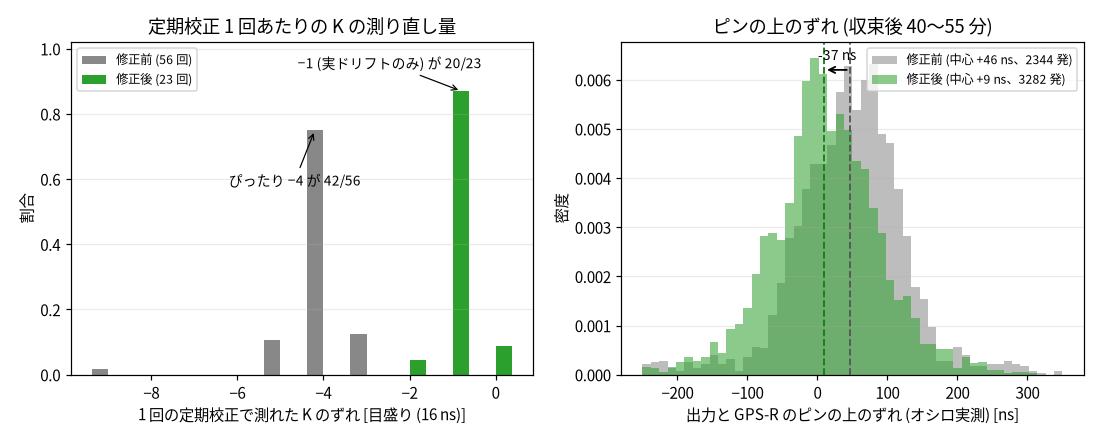
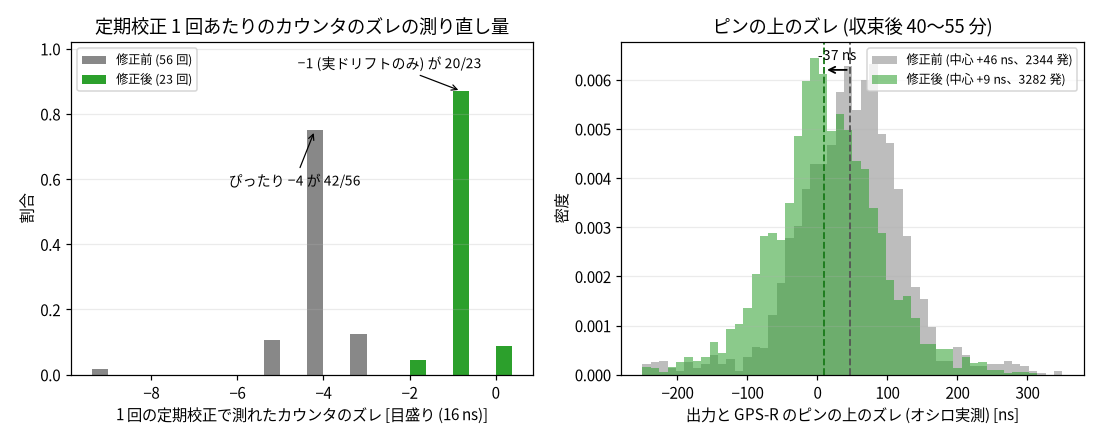
docs(precision): 「実効 K」を「カウンタのズレ」に改称し切り分けを図で明示
- 本文・セクションタイトル・図から「実効 K」「K」を排し「カウンタのズレ」に統一
- 表記揺れ「ずれ/ズレ」を「ズレ」に統一 (いずれ等は除外)
- 観測方法図 fig-kexp-setup を全面刷新: 上段に 3 カウンタと各自の見るピン・
  校正での切替有無、下段に「原因 (個体差/波形依存/校正の切替) × 差 (c0−c3/c0−c2)」
  のマトリクスを置き、c0−c3 は同じ GP2・切替なしゆえ個体差しか効かず c0−c2 は
  3 つ全部が混ざる、という切り分けの理屈を明示
- fig-k-offset / fig-kslip-fix の図中文言も ズレ / カウンタのズレ に追随

Claude-Session: https://claude.ai/code/session_01QA3SZ4k1hmnnVeG51UZWBZ

diff --git a/docs/report/precision-ladder/README.md b/docs/report/precision-ladder/README.md
@@ -56,7 +56,7 @@ on_gps_edge() {
 
 実際に 8 回起動して、位相差 `phase` を毎秒記録してみる。ズレは 2 つに分かれて見える。まず、起動直後の位相差は毎回バラバラで、1 秒の中のどこにでも落ちる。出力の秒の刻み目は firmware が起動した瞬間で決まり、GPS-R の秒境界とは無関係だからだ。これがオフセットのズレになる。もうひとつ、出力のエッジは GPS-R のエッジに対して、どの起動でも毎秒 2.5〜3 µs ずつ同じ向きに動き続ける。いまの室温では Pico の水晶が GPS-R より約 2.7 ppm 速く、出力の「1 秒」がわずかに短いためだ。これが間隔のズレになる。
 
-![タイマーだけの 1PPS と GPS-R のずれ。起動直後の位相差は毎回バラバラ(左)、位相差が動く速さは毎回ほぼ同じ(右)](precision-figs/fig-naive-phase.png)
+![タイマーだけの 1PPS と GPS-R のズレ。起動直後の位相差は毎回バラバラ(左)、位相差が動く速さは毎回ほぼ同じ(右)](precision-figs/fig-naive-phase.png)
 
 エッジが動き続けるのは、測ったズレをまだ出力へ戻していないからだ。ズレを測って戻す前に、この測定自体の質も見ておく。
 
@@ -68,11 +68,11 @@ on_gps_edge() {
 
 ## GPS-R を見て周期を寄せる
 
-水晶のずれが見えたので、次は GPS-R 1PPS が来るたびにその時刻を Pico のタイマーで読み、ずれに合わせて出力周期を少しずつ寄せる。Pico の水晶が速ければ次の周期をわずかに長くし、遅ければ短くする。PPS が届いている間に周波数を学習しておけば、PPS が途切れても推定で時刻を進められる。この状態を holdover と呼ぶ。
+水晶のズレが見えたので、次は GPS-R 1PPS が来るたびにその時刻を Pico のタイマーで読み、ズレに合わせて出力周期を少しずつ寄せる。Pico の水晶が速ければ次の周期をわずかに長くし、遅ければ短くする。PPS が届いている間に周波数を学習しておけば、PPS が途切れても推定で時刻を進められる。この状態を holdover と呼ぶ。
 
-タイマーだけのときは、位相差が毎秒 µs 単位で動いていた。周期を寄せて周波数の推定が落ち着くと、位相差はほとんど動かなくなる。水晶のずれの大半は、これで打ち消せている。ただし、この補正で合わせているのは周期(1 秒の長さ)だけで、位相差そのものを 0 へ戻す力はない。だから位相差は成り行きの場所で止まる。この計測では +388 ms で止まり、その周りを σ 3.6 µs で揺れている。位相差を 0 へ寄せるのは、のちの PLL の仕事になる。
+タイマーだけのときは、位相差が毎秒 µs 単位で動いていた。周期を寄せて周波数の推定が落ち着くと、位相差はほとんど動かなくなる。水晶のズレの大半は、これで打ち消せている。ただし、この補正で合わせているのは周期(1 秒の長さ)だけで、位相差そのものを 0 へ戻す力はない。だから位相差は成り行きの場所で止まる。この計測では +388 ms で止まり、その周りを σ 3.6 µs で揺れている。位相差を 0 へ寄せるのは、のちの PLL の仕事になる。
 
-その周期合わせにも制約がある。出したい周期は「GPS-R の 1 秒」そのもので、Pico のタイマーで測ると、この計測では平均 1000002.9 µs にあたる。水晶が速いぶんタイマーの 1 µs はわずかに短く、本当の 1 秒を数えるには 1000002.9 個ぶん必要になるからだ(ずれの大きさは温度でも動くので、前の節の 8 回とは少し違う値になっている)。ところが出力周期は、タイマーの 1 µs 単位でしか指定できない。1000002 µs や 1000003 µs は出せても、端数の 0.9 µs は出せない。そこで、ある秒は 1000003 µs、別の秒は 1000002 µs、と混ぜて出し、何秒も平均すると 1000002.9 µs になるようにする。1 回ごとの周期は最大 1 µs 弱ずれるが、平均は狙いに乗る。これが一次 sigma-delta と呼ばれるやり方だ。
+その周期合わせにも制約がある。出したい周期は「GPS-R の 1 秒」そのもので、Pico のタイマーで測ると、この計測では平均 1000002.9 µs にあたる。水晶が速いぶんタイマーの 1 µs はわずかに短く、本当の 1 秒を数えるには 1000002.9 個ぶん必要になるからだ(ズレの大きさは温度でも動くので、前の節の 8 回とは少し違う値になっている)。ところが出力周期は、タイマーの 1 µs 単位でしか指定できない。1000002 µs や 1000003 µs は出せても、端数の 0.9 µs は出せない。そこで、ある秒は 1000003 µs、別の秒は 1000002 µs、と混ぜて出し、何秒も平均すると 1000002.9 µs になるようにする。1 回ごとの周期は最大 1 µs 弱ズレるが、平均は狙いに乗る。これが一次 sigma-delta と呼ばれるやり方だ。
 
 ![10 回に 1 回だけ 1000002 µs を混ぜると、平均は 1000002.9 µs になる (模式図)](precision-figs/fig-dither-concept.png)
 
@@ -106,7 +106,7 @@ loop {
 
 ## PLL で位相を閉じる
 
-ここから先は、出力の位相を GPS-R にぴったり合わせにいく。そのためにはまず、GPSDO PPS が GPS-R 1PPS からどれだけずれているかを測らなければならない。そこで出力を一本のワイヤで Pico に戻し(loopback)、GPS-R のエッジと同じように PIO で捕まえて、出力と GPS-R の位相差を内部で測る。この内部で測った位相差を、ここでは loopback 位相と呼ぶ(firmware のログでは hwphase という)。この流れを図にすると、次のようになる。
+ここから先は、出力の位相を GPS-R にぴったり合わせにいく。そのためにはまず、GPSDO PPS が GPS-R 1PPS からどれだけズレているかを測らなければならない。そこで出力を一本のワイヤで Pico に戻し(loopback)、GPS-R のエッジと同じように PIO で捕まえて、出力と GPS-R の位相差を内部で測る。この内部で測った位相差を、ここでは loopback 位相と呼ぶ(firmware のログでは hwphase という)。この流れを図にすると、次のようになる。
 
 ```mermaid
 flowchart LR
@@ -122,7 +122,7 @@ flowchart LR
 
 ![loopback 接続。出力 GP3 の信号を 1 本のワイヤで GP4 へ戻し、GPS-R と出力の両方のエッジ時刻を PIO で捕まえる](precision-figs/fig-loopback.png)
 
-ただ、PIO だけではまだ開ループだ。開ループというのは、測った位相差を出力へ戻していない状態を指す。周波数を合わせただけのときと同じで、位相差は成り行きの場所に居座ったまま、残った小さな周波数ずれのぶんゆっくり動き続ける。この動きは σ にして約 1866 ns、およそ 1.9 µs ある。
+ただ、PIO だけではまだ開ループだ。開ループというのは、測った位相差を出力へ戻していない状態を指す。周波数を合わせただけのときと同じで、位相差は成り行きの場所に居座ったまま、残った小さな周波数ズレのぶんゆっくり動き続ける。この動きは σ にして約 1866 ns、およそ 1.9 µs ある。
 
 そこで PLL (Phase-Locked Loop) を入れる。ここでは、GPS-R 1PPS と GPSDO PPS の位相差を見ながら出力周期を少しずつ戻す制御ループを指す。出力位相が進んでいれば少し遅らせ、遅れていれば進める。PIO がエッジの測定と生成を安定させ、PLL がゆっくりした位相の流れを戻す、という役割分担になる。
 
@@ -150,23 +150,23 @@ I を入れた PI と PID では、オフセットは 0 中心へ戻る。その
 
 ## オシロで答え合わせをする
 
-PLL を入れると内部の loopback 位相は 0 付近に寄る。ただ、内部で合っていることと、ピンの上で合っていることは別の話だ。ピンの上で合っているとは、実際の出力ピンと GPS-R PPS ピンの位相が、外部計器で見て揃っているという意味になる。loopback 経路に固定のずれがあると、内部では合って見えてもピンの上ではずれる。
+PLL を入れると内部の loopback 位相は 0 付近に寄る。ただ、内部で合っていることと、ピンの上で合っていることは別の話だ。ピンの上で合っているとは、実際の出力ピンと GPS-R PPS ピンの位相が、外部計器で見て揃っているという意味になる。loopback 経路に固定のズレがあると、内部では合って見えてもピンの上ではズレる。
 
-まず、内部の loopback 位相そのものに校正が要る。出力と GPS-R は別々の PIO カウンタで捕捉していて、2 つのカウンタは数え始めの瞬間が違うから、読みは常に一定量ずれている。この差をここでは実効 K と呼ぶ。大きさは 2 つを有効化するコードの間隔で決まり、この firmware では実測でおよそ 5500 tick (1 tick は PIO の 16 ns 目盛りで、88 µs ぶん)、目標 100 ns の 1000 倍ある。
+まず、内部の loopback 位相そのものに校正が要る。出力と GPS-R は別々の PIO カウンタで捕捉していて、2 つのカウンタは数え始めの瞬間が違うから、読みは常に一定量ズレている。この差をここではカウンタのズレと呼ぶ。大きさは 2 つを有効化するコードの間隔で決まり、この firmware では実測でおよそ 5500 tick (1 tick は PIO の 16 ns 目盛りで、88 µs ぶん)、目標 100 ns の 1000 倍ある。
 
-直感的には、これは単なる固定オフセットのはずだ。数え始めの差は一定だし、同じクロックで刻む 2 つのカウンタが勝手に離れていく理由はない。だから起動時に一度だけ測って、差し引くことにする。測り方は単純で、同じエッジを 2 つのカウンタに見せれば、同じ瞬間の読みどうしの差がカウンタのずれそのものになる。
+直感的には、これは単なる固定オフセットのはずだ。数え始めの差は一定だし、同じクロックで刻む 2 つのカウンタが勝手に離れていく理由はない。だから起動時に一度だけ測って、差し引くことにする。測り方は単純で、同じエッジを 2 つのカウンタに見せれば、同じ瞬間の読みどうしの差がカウンタのズレそのものになる。
 
-![実効 K が生まれる理由と測り方。数え始めの瞬間の違いが一定のずれになり、同じエッジの読みの差として測れる](precision-figs/fig-k-offset.png)
+![カウンタのズレが生まれる理由と測り方。数え始めの瞬間の違いが一定のズレになり、同じエッジの読みの差として測れる](precision-figs/fig-k-offset.png)
 
-ところが、これで終わらなかった。起動時に校正した構成をオシロで見続けると、内部の loopback 位相は 0 付近のままなのに、ピンの上の位相差は時間とともにまた歩いていく。落ち着いてから約 20 分の時点で +249 ns (30 発平均、σ 18 ns)。つまり K は固定ではなく、動作中に少しずつスリップしていて、firmware は古い K のまま 0 を作り続けている。放置すると数 ns/min で歩く(この日の計測では +3.8 ns/min、以前の計測では +5.3 ns/min)。以前 793 ns の隠れたずれが出たのも、このスリップの放置が原因だった。
+ところが、これで終わらなかった。起動時に校正した構成をオシロで見続けると、内部の loopback 位相は 0 付近のままなのに、ピンの上の位相差は時間とともにまた歩いていく。落ち着いてから約 20 分の時点で +249 ns (30 発平均、σ 18 ns)。つまりカウンタのズレは固定ではなく、動作中に少しずつスリップしていて、firmware は古い値のまま 0 を作り続けている。放置すると数 ns/min で歩く(この日の計測では +3.8 ns/min、以前の計測では +5.3 ns/min)。以前 793 ns の隠れたズレが出たのも、このスリップの放置が原因だった。
 
-![起動時に校正しただけの構成。内部は 0 付近なのに、ピンの上では +249 ns ずれている (落ち着いてから約 20 分。30 発平均、σ 18 ns、100 ns/div)](precision-figs/scope-norecal-t020.png)
+![起動時に校正しただけの構成。内部は 0 付近なのに、ピンの上では +249 ns ズレている (落ち着いてから約 20 分。30 発平均、σ 18 ns、100 ns/div)](precision-figs/scope-norecal-t020.png)
 
-スリップの出どころは、この時点では分からない。ただ K は測れる量なので、原因を知らなくても、測り直し続ければ追従できる。そこで約 2.5 分ごとに実効 K を測り直す。これを以後、定期校正と呼ぶ。測り直した値は急に飛ばさず、ゆっくり寄せるようにする。これでずれはほぼ止まり、長い目で見た傾きはほぼ 0 (この計測では −0.1 ns/min、以前の計測では +0.3 ns/min) に抑えられる。
+スリップの出どころは、この時点では分からない。ただカウンタのズレは測れる量なので、原因を知らなくても、測り直し続ければ追従できる。そこで約 2.5 分ごとにこれを測り直す。これを以後、定期校正と呼ぶ。測り直した値は急に飛ばさず、ゆっくり寄せるようにする。これでズレはほぼ止まり、長い目で見た傾きはほぼ 0 (この計測では −0.1 ns/min、以前の計測では +0.3 ns/min) に抑えられる。
 
-![左: 起動時校正だけだと、ピンの上のずれ (オシロ実測と内部の差) が一直線にずれていく。右: 定期校正を入れると平坦になる。緑線は定期校正の実行で、40 分に 15 回](precision-figs/fig-recal-walk.png)
+![左: 起動時校正だけだと、ピンの上のズレ (オシロ実測と内部の差) が一直線にズレていく。右: 定期校正を入れると平坦になる。緑線は定期校正の実行で、40 分に 15 回](precision-figs/fig-recal-walk.png)
 
-オシロで直接見ても、定期校正ありの出力エッジは GPS-R の +40 ns 前後に居座り続ける。下は上の連続計測中、ずれが走行平均の近傍にいた瞬間の 1 コマだ。
+オシロで直接見ても、定期校正ありの出力エッジは GPS-R の +40 ns 前後に居座り続ける。下は上の連続計測中、ズレが走行平均の近傍にいた瞬間の 1 コマだ。
 
 ![定期校正あり構成の計測中の 1 コマ (100 ns/div)。40 分の走行平均 +40 ns の近傍にいる](precision-figs/scope-fullconfig-repr.png)
 
@@ -177,15 +177,15 @@ PLL を入れると内部の loopback 位相は 0 付近に寄る。ただ、内
 | PLL のみ、定期校正なし | +131.5 ns | 85.5 ns | 35% |
 | 全部入り構成 (定期校正あり) | +33 ns | 約 20〜70 ns (窓によって変わる) | 穏やかな窓で 100%、揺れる窓で約 75% |
 
-定期校正なしでは、出力は GPS-R に対して +131.5 ns に寄っていて、オシロの単発測定のうち ≤100 ns に入るのは 35% だけになる。ここまでの改良に、このあと足す温度補正まで入れた構成を、以後まとめて全部入り構成と呼ぶ。この構成では実効 K のスリップが抑えられ、GPS-R 相対の中心は安定する。一方で、定期校正をかけても、出力ピンと GPS-R PPS ピンの間には、時間で動かない一定のずれが残る。オシロでピンの上を直接見ると、全部入り構成の中心は +33 ns あたりにいて、0 ではない。loopback からは見えないずれなので、この時点では、pad や基板の配線、オシロのプローブを信号が伝わる時間の差だと考えていた。この見立ては次の節で覆る。
+定期校正なしでは、出力は GPS-R に対して +131.5 ns に寄っていて、オシロの単発測定のうち ≤100 ns に入るのは 35% だけになる。ここまでの改良に、このあと足す温度補正まで入れた構成を、以後まとめて全部入り構成と呼ぶ。この構成ではカウンタのズレのスリップが抑えられ、GPS-R 相対の中心は安定する。一方で、定期校正をかけても、出力ピンと GPS-R PPS ピンの間には、時間で動かない一定のズレが残る。オシロでピンの上を直接見ると、全部入り構成の中心は +33 ns あたりにいて、0 ではない。loopback からは見えないずれなので、この時点では、pad や基板の配線、オシロのプローブを信号が伝わる時間の差だと考えていた。この見立ては次の節で覆る。
 
-![定期校正の前後 (オシロ実測)。定期校正でスリップが抑えられ中心が安定するが、+33 ns の固定のずれが残る](precision-figs/fig2-s4-beforeafter.png)
+![定期校正の前後 (オシロ実測)。定期校正でスリップが抑えられ中心が安定するが、+33 ns の固定のズレが残る](precision-figs/fig2-s4-beforeafter.png)
 
 この安定は長時間でも保つ。全部入り構成を数時間走らせたあとにオシロで 30 発測っても、中心は +26 ns (σ 41 ns) にいた。
 
-この固定のずれは、オシロの観測結果を制御に使えば消すことができる。ただ、firmware の中で処理を完結させたいので、やらない。オシロ計測にはプローブの遅れの差などのバイアスも入り得るので、それを firmware に焼き込むと計測系の癖まで固定してしまう。オシロは、ピンの上で実際に揃っているかを外から確かめる検証に使い、出力のチューニングには使わない。
+この固定のズレは、オシロの観測結果を制御に使えば消すことができる。ただ、firmware の中で処理を完結させたいので、やらない。オシロ計測にはプローブの遅れの差などのバイアスも入り得るので、それを firmware に焼き込むと計測系の癖まで固定してしまう。オシロは、ピンの上で実際に揃っているかを外から確かめる検証に使い、出力のチューニングには使わない。
 
-なお、以前見えた 793 ns の隠れたずれは定期校正で消えていて、いま残っている +33 ns はそれとは別の固定のずれだ。
+なお、以前見えた 793 ns の隠れたズレは定期校正で消えていて、いま残っている +33 ns はそれとは別の固定のズレだ。
 
 性能の数字を取るときは、落ち着くのを待つ。収束の途中で測ると、定常の実力とは別物の数字が出る。実際、最初の測定は収束途中のオーバーシュートの最中に取ってしまっていて、scope mean は +216 ns、≤100 ns 率は 0% だった。このとき loopback 位相も +272〜304 ns に振れている。
 
@@ -199,21 +199,21 @@ PLL を入れると内部の loopback 位相は 0 付近に寄る。ただ、内
 
 ![出力エッジが +33ns あたりを中心にゆっくりゆらぐ様子 (30 ns/div, single trigger)](precision-figs/offset-wander.gif)
 
-## 実効 K はなぜスリップするのか
+## カウンタのズレはなぜスリップするのか
 
-定期校正でスリップには追従できたが、出どころは分からないままだった。ログには妙な癖も見えている。定期校正が測り直すたびに出るずれ量が、毎回ほぼ同じ −4〜−5 tick (2.5 分あたり −64〜−80 ns) なのだ。1 分あたりに直すと約 26〜32 ns/min で、放置したときにピンがずれていく実測 (+3.8〜+5.3 ns/min) の 5〜8 倍もある。内部が見ているスリップと、ピンに出るスリップは、同じものに見えない。
+定期校正でスリップには追従できたが、出どころは分からないままだった。ログには妙な癖も見えている。定期校正が測り直すたびに出るズレ量が、毎回ほぼ同じ −4〜−5 tick (2.5 分あたり −64〜−80 ns) なのだ。1 分あたりに直すと約 26〜32 ns/min で、放置したときにピンがズレていく実測 (+3.8〜+5.3 ns/min) の 5〜8 倍もある。内部が見ているスリップと、ピンに出るスリップは、同じものに見えない。
 
 説明の候補を 3 つ立てた。前提として、定期校正は loopback 側のカウンタを一瞬 GPS-R のピンへ向けて同じエッジを見せ、測り終えたら出力へ戻す、という往復の切替でできている。
 
 - **個体差**: 同じクロックで刻んでいても、カウンタごとに進み方がわずかに違う。
 - **波形依存**: 捕捉プログラムの振る舞いは見ているピンの波形に左右されるから、GPS-R の非同期なエッジを見る側と、自分の出力の同期したエッジを見る側で、刻みの抜け方が変わる。
-- **校正手続きの見かけ**: カウンタ自体はずれておらず、定期校正の切替そのものが毎回一定のずれを作っている。
+- **校正手続きの見かけ**: カウンタ自体はズレておらず、定期校正の切替そのものが毎回一定のズレを作っている。
 
 切り分けには観測を 1 本足すのが早い。PIO には捕捉プログラムを走らせられる枠が 1 本余っているので、3 本目のカウンタを GPS-R のピンへ常時向け、既存の 2 本と合わせて 3 つの読みを毎秒すべてログしながら 2.4 時間流す。オシロも並走させて、ピンの上の真値と突き合わせる。同じピンを見る 2 本の差が動けば個体差で、動かなければ残りの 2 つに絞れる。
 
-![切り分け実験の観測方法。既存の 2 カウンタ (GPS-R 用 c0、loopback 用 c2) に、GPS-R と同じ GP2 を見る 3 本目 (観測用 c3) を足す。同じピンを見る c0 − c3 が個体差だけを映し、c0 − c2 が実効 K でこれがスリップする。3 本目は読むだけで制御に関与しない](precision-figs/fig-kexp-setup.png)
+![カウンタのズレの原因の切り分け。上: 3 本のカウンタ (GPS-R 用 c0 と観測用 c3 は GP2、loopback 用 c2 は GP4) と、各自が見るピンと校正での切替の有無。下: 差ごとに効きうる原因。c0 − c3 は同じ GP2 で切替もないので個体差しか効かず、c0 − c2 は 3 つ全部が混ざる](precision-figs/fig-kexp-setup.png)
 
-結果は仮説を 1 つに絞った。同じ GPS-R ピンを見る 2 本の差は、2.4 時間で量子化の ±1 tick を残して平坦のまま動かない (傾きは 0.000 ns/min)。個体差は消えた。定期校正が測るずれは 56 回中 42 回がぴったり −4 tick で、温度とは無相関だった。連続してたまるドリフトではなく、校正 1 回につき 1 個ずつ出る固定量ということになる。そして肝心のピンの上は、オシロで見るかぎり 2.4 時間ずっと平坦のまま (傾き −0.006 ns/min)。つまり −4 tick は、切替が自分で作り、次の校正が K ごと測り直して自分で打ち消す、ピンに届かない見かけの量になる。残るのは校正手続きの見かけ、それも切替 1 回あたりの固定量という形だ。
+結果は仮説を 1 つに絞った。同じ GPS-R ピンを見る 2 本の差は、2.4 時間で量子化の ±1 tick を残して平坦のまま動かない (傾きは 0.000 ns/min)。個体差は消えた。定期校正が測るズレは 56 回中 42 回がぴったり −4 tick で、温度とは無相関だった。連続してたまるドリフトではなく、校正 1 回につき 1 個ずつ出る固定量ということになる。そして肝心のピンの上は、オシロで見るかぎり 2.4 時間ずっと平坦のまま (傾き −0.006 ns/min)。つまり −4 tick は、切替が自分で作り、次の校正がズレごと測り直して自分で打ち消す、ピンに届かない見かけの量になる。残るのは校正手続きの見かけ、それも切替 1 回あたりの固定量という形だ。
 
 では、切替の何がカウンタを 4 tick 遅らせるのか。切替に使っているのは PIO を操作するライブラリの設定関数で、これはピン番号だけ変えたい場合でも、クロック分周や FIFO などの設定レジスタ一式を毎回書き直す。疑いを直接確かめるため、3 本目のカウンタ (純観測なので、何をしても制御に影響しない) に「値を変えない」書き込みを 1 分おきに打ち分けた。設定関数を丸ごと呼ぶ場合と、設定レジスタを 1 本ずつ同じ値で書き直す場合とで、同じピンを見る 2 本の差に段が出るかを見る。
 
@@ -223,11 +223,11 @@ PLL を入れると内部の loopback 位相は 0 付近に寄る。ただ、内
 
 犯人は設定関数の最後の一手だった。この関数はレジスタを書き終えたあと、走行中のプログラムへ「先頭へ跳べ」という命令を割り込ませる。捕捉プログラムの実物は、エッジを FIFO へ積む数命令のあいだ X = X − 1 の減算が止まる作りになっている (擬似コードでは省いた細部だ)。切替はエッジ処理の直後、パルスがまだ high のうちに走るので、先頭へ跳んだプログラムはピンが high なのを見て、偽のエッジ捕捉を 1 回やり直す。強制ジャンプと偽捕捉で合わせて 4 サイクル、減算が止まる。1 tick は 2 サイクルだから、ちょうど −2 tick。定期校正は GPS-R へ向ける切替と出力へ戻す切替で 2 回呼ぶので、1 回の校正あたり −4 tick になる。この機構なら偽のエッジが FIFO に 1 個積まれるはずで、その予言もログでそのまま確認できた。
 
-この機構は、+33 ns の固定のずれの正体でもあった。校正は起動時も定期も、K を測り終えてから出力側のピンへ切り替えて戻る。この戻しの切替で失う 2 tick (32 ns) は、いま測ったばかりの K には入っていない。次の校正まではその K のまま制御し、制御は loopback 位相を 0 に保つから、K に入らなかった 32 ns はそのままピンの上へ押し出される。どの校正の直後も同じだけ取りこぼすので、出力は常に +32 ns 側へ座り続ける。配線やプローブの遅れと考えていた +33 ns は、ほぼまるごとこの取りこぼしだった。
+この機構は、+33 ns の固定のズレの正体でもあった。校正は起動時も定期も、カウンタのズレを測り終えてから出力側のピンへ切り替えて戻る。この戻しの切替で失う 2 tick (32 ns) は、いま測ったばかりのズレには入っていない。次の校正まではそのズレのまま制御し、制御は loopback 位相を 0 に保つから、ズレに入らなかった 32 ns はそのままピンの上へ押し出される。どの校正の直後も同じだけ取りこぼすので、出力は常に +32 ns 側へ座り続ける。配線やプローブの遅れと考えていた +33 ns は、ほぼまるごとこの取りこぼしだった。
 
-直し方は、実験がそのまま教えてくれる。切替のときに設定を丸ごと書き直すのをやめ、どのピンを見るかのレジスタフィールドだけを書き換える (設定関数を通さずレジスタを直接書くだけなら段が出ないことは、上の実験で確認済みだ)。1 時間の検証で、定期校正が測るずれは 23 回中 20 回が −1 tick になり、ぴったり −4 は消えた。ピンの上の中心も、修正直前の計測の +46 ns (中心そのものがゆっくりゆらぐので、窓の取り方で +33〜+46 ns を動く) から +9 ns へ動いた。移動量の約 37 ns は、取りこぼしていた 32 ns と、このゆらぎの誤差の範囲で一致する。ここまでの節で +33 ns と書いてきた中心は、この修正のあとは +9 ns 前後になる。
+直し方は、実験がそのまま教えてくれる。切替のときに設定を丸ごと書き直すのをやめ、どのピンを見るかのレジスタフィールドだけを書き換える (設定関数を通さずレジスタを直接書くだけなら段が出ないことは、上の実験で確認済みだ)。1 時間の検証で、定期校正が測るズレは 23 回中 20 回が −1 tick になり、ぴったり −4 は消えた。ピンの上の中心も、修正直前の計測の +46 ns (中心そのものがゆっくりゆらぐので、窓の取り方で +33〜+46 ns を動く) から +9 ns へ動いた。移動量の約 37 ns は、取りこぼしていた 32 ns と、このゆらぎの誤差の範囲で一致する。ここまでの節で +33 ns と書いてきた中心は、この修正のあとは +9 ns 前後になる。
 
-![切替修正の前後。左: 定期校正 1 回あたりの K の測り直し量は −4 tick 中心から −1 tick 中心になる。右: ピンの上のずれの中心は +46 ns から +9 ns へ動く](precision-figs/fig-kslip-fix.png)
+![切替修正の前後。左: 定期校正 1 回あたりのカウンタのズレの測り直し量は −4 tick 中心から −1 tick 中心になる。右: ピンの上のズレの中心は +46 ns から +9 ns へ動く](precision-figs/fig-kslip-fix.png)
 
 残った −1 tick/2.5 分 (約 6 ns/min) が、起動時校正だけの構成でピンが歩いて見えていた実ドリフトの本体だ。ピンで見えていた +3.8〜+5.3 ns/min とおおむね同じ大きさで、冒頭の食い違いは切替の見かけを差し引くと消える。定期校正はこの実ドリフトを吸収するために残す。出どころはまだ特定していない。同じ GPS-R ピンを見る 2 本のカウンタは 2.4 時間見てもレートで離れなかったので、残る容疑は 3 つの候補のうちの波形依存になる。非同期な GPS-R エッジと同期した出力エッジとで、エッジを捕まえる位置の平均がゆっくり動く筋だ。
 
@@ -276,7 +276,7 @@ PLL を入れると内部の loopback 位相は 0 付近に寄る。ただ、内
 
 ログを追うと、温度フィードフォワードが実際の水晶変化に対して大きすぎることが見えてくる。速い加熱でフィードフォワードは −1363 ppb まで膨らむが、落ち着いたあとに見える実際の水晶周波数変化は −0.773 ppb になる。比にするとおよそ 1800 倍で、温度の先読みが効きすぎたというより、別の推定器が大きく反応している。
 
-matched-lead だけなら、同じような温度ステップでも約 41 ppb で止まる。−1363 ppb まで膨らむ分は、RP2040 の温度と水晶の温度のモデルのずれを、温度以外の残差を拾う推定器 (observer) が大きな補正として出してしまったものと見られる。
+matched-lead だけなら、同じような温度ステップでも約 41 ppb で止まる。−1363 ppb まで膨らむ分は、RP2040 の温度と水晶の温度のモデルのズレを、温度以外の残差を拾う推定器 (observer) が大きな補正として出してしまったものと見られる。
 
 ![フィードフォワードが実変化のおよそ 1800 倍に過反応する](precision-figs/fig9-overreact.png)
 
@@ -302,7 +302,7 @@ clamp 版を焼き、加熱レートを約 1.1℃/10s に揃えて A/B を取る
 
 3 回とも ≤100 ns 帯に戻り、scope mean は +72.9〜+84.2 ns、boot 間の差は約 11 ns になる。loopback 位相も 66〜80 ns に入っている。起動のたびに任意の位置(数百 ms 単位)から始まっていたタイマーだけの頃と比べると、対照的な再現性だ。
 
-ただし、この 3 回は、実効 K のスリップの正体がまだ分かっておらず、ピンの上の中心を 0 の近くへ寄せるために出力へ一定量を足していた頃の測定になる(スリップの機構が分かって取りこぼしを直したいま、この下駄は外してある)。だから絶対の中心は今の全部入り構成とは別の位置にある。ここで見たいのは、boot 間のばらつきが約 11 ns と小さいこと、つまり再起動しても同じ位置へ戻ることだ。この再現性は中心の絶対位置に依らない。なお、この比較は落ち着いた直後の同じ時点を見たもので、長時間運転したあとの中心が boot ごとに同じになるかまでは確かめていない。
+ただし、この 3 回は、カウンタのズレのスリップの正体がまだ分かっておらず、ピンの上の中心を 0 の近くへ寄せるために出力へ一定量を足していた頃の測定になる(スリップの機構が分かって取りこぼしを直したいま、この下駄は外してある)。だから絶対の中心は今の全部入り構成とは別の位置にある。ここで見たいのは、boot 間のばらつきが約 11 ns と小さいこと、つまり再起動しても同じ位置へ戻ることだ。この再現性は中心の絶対位置に依らない。なお、この比較は落ち着いた直後の同じ時点を見たもので、長時間運転したあとの中心が boot ごとに同じになるかまでは確かめていない。
 
 ![再起動 3 回の再現性](precision-figs/fig5-bootrepro.png)
 
@@ -312,14 +312,14 @@ clamp 版を焼き、加熱レートを約 1.1℃/10s に揃えて A/B を取る
 
 ## まだ見ていないこと
 
-ここまでで、同じ GPS-R の 1PPS に対して中心を安定させられること、実効 K のスリップの機構を突き止めてピンの上の中心を +9 ns 前後まで寄せられたこと、温度の速い外乱には clamp が効くことまでは確認できた。残っている宿題もいくつかある。
+ここまでで、同じ GPS-R の 1PPS に対して中心を安定させられること、カウンタのズレのスリップの機構を突き止めてピンの上の中心を +9 ns 前後まで寄せられたこと、温度の速い外乱には clamp が効くことまでは確認できた。残っている宿題もいくつかある。
 
 再起動の再現性は、固定オフセットを入れていた頃に落ち着いた直後だけを見たものだ。今の全部入り構成で、長時間運転したあとの中心が boot ごとに同じ位置へ戻るかは、別の測定として残っている。
 
 温度フィードフォワードの効果量も、手加熱の n=3 対 4 では、まだはっきりとは言えない。固定ヒータと水晶近傍センサを使い、ありなしを交互に十分な回数で取れば、効いている量とばらつきをもう少しきれいに分けられる。
 
-残った実ドリフト (約 6 ns/min) の出どころも特定できていない。切替の見かけが消えた今は、定期校正が測るずれ量がこの実ドリフトだけを映すので、出どころを追うのも、校正間隔を伸ばす検討も、以前よりやりやすくなった。
+残った実ドリフト (約 6 ns/min) の出どころも特定できていない。切替の見かけが消えた今は、定期校正が測るズレ量がこの実ドリフトだけを映すので、出どころを追うのも、校正間隔を伸ばす検討も、以前よりやりやすくなった。
 
 真の UTC に対する絶対精度も、この測定だけでは言えない。TIC、Rb、2 台目の GPS-R のような独立した外部基準を使っていないからだ。ここで言えるのは、同じ GPS-R の 1PPS に対して、出力ピンの上でどれだけ揃ったか、内部観測とオシロがどれだけ違ったか、温度外乱で何が起きたか、という範囲になる。
 
-どの測定にも共通する注意点は、ロックに入りきる前と、落ち着いたあとを混ぜないことだ。収束途中のオーバーシュートの最中に取ると、全部入り構成でも +216 ns、≤100 ns 率 0% のような値が出るため、mean だけでなく σ と窓別統計を見て、受信条件も一緒に残す必要がある。loopback 位相は便利な内部観測だが、ピンの上の実測ではない。ピンの上の話をするときは GPS-R の PPS を基準にオシロで確かめる。固定のずれは配線とは限らず、今回のように firmware 自身の取りこぼしが正体のこともある。
+どの測定にも共通する注意点は、ロックに入りきる前と、落ち着いたあとを混ぜないことだ。収束途中のオーバーシュートの最中に取ると、全部入り構成でも +216 ns、≤100 ns 率 0% のような値が出るため、mean だけでなく σ と窓別統計を見て、受信条件も一緒に残す必要がある。loopback 位相は便利な内部観測だが、ピンの上の実測ではない。ピンの上の話をするときは GPS-R の PPS を基準にオシロで確かめる。固定のズレは配線とは限らず、今回のように firmware 自身の取りこぼしが正体のこともある。
